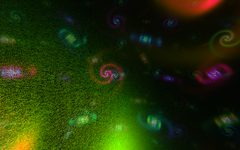
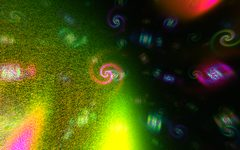
Library moves with the morph, Bismuth's crystals are larger and fewer, Galaxies is brighter
Library: the morph widens and heightens the doorways and shafts and slides every book out from the wall
and back by its own amount. Bismuth: three sizes of crystal, each a little over half the last, where four
at a steeper step read as rubble. Galaxies: more light, thicker discs for the steps to find, and the
larger galaxies tighter about their middles so the camera is seldom inside one.

Claude-Session: https://claude.ai/code/session_01P6VPR9y6rGkpLBNy8xwDmE

diff --git a/js/worlds.js b/js/worlds.js
@@ -1145,11 +1145,12 @@ export const WORLDS=[
 /* Bismuth: hopper crystals. A crystal that grows faster along its edges than in the middle of its faces is left as a
    frame, each face sunk in square steps down to a small cube at the heart. Here each face goes down eight steps
    (biS: the distance to a flight of steps), and a smaller crystal stands on each of the eight corners, turned a
-   little, and smaller ones on theirs, four sizes in all. The morph turns them. */
+   little, and smaller ones on theirs, three sizes in all, each a little over half the size before, so that
+   the largest are plainly crystals and the smallest are not lost as rubble. The morph turns them. */
 {id:"bismuth",name:"Bismuth",hue:.78,fog:.12,maxd:24,speed:.9,start:null,
- period:function(){return [9.2,9.2,9.2]},
+ period:function(){return [8.4,8.4,8.4]},
  glsl:[
- "#define P 4.6",
+ "#define P 4.2",
  "float biK;",
  "float biS(float t,float v){", /* steps of an eighth that rise with v: the distance to everything under them */
  "  if(t-v>0.25)return (t-v)*0.7071068;",
@@ -1160,17 +1161,17 @@ export const WORLDS=[
  "  p=abs(mod(p+0.5*P,2.0*P)-P)-0.5*P;",
  "  float a1=0.3+0.25*uM;float c1=cos(a1),s1=sin(a1);",
  "  float s=1.0;float d=1e5;orb=vec4(1000.0);biK=0.0;",
- "  for(int i=0;i<4;i++){",
+ "  for(int i=0;i<3;i++){",
  "    vec3 a=abs(p);",
  "    if(a.x<a.y)a.xy=a.yx;",
  "    if(a.x<a.z)a.xz=a.zx;",
  "    if(a.y<a.z)a.yz=a.zy;",
  "    float e=max(biS(a.x-0.25,a.y),a.x-1.0)/s;",
- "    if(e<d){d=e;orb=vec4(fract(a.y*8.0),0.3*biK,0.0,0.75*biK+0.13*float(i));}",
- "    p=abs(p)-0.9;",
+ "    if(e<d){d=e;orb=vec4(fract(a.y*8.0),0.3*biK,0.0,0.75*biK+0.17*float(i));}",
+ "    p=abs(p)-0.95;",
  "    p.xy=vec2(c1*p.x-s1*p.y,s1*p.x+c1*p.y);",
  "    p.yz=vec2(c1*p.y-s1*p.z,s1*p.y+c1*p.z);",
- "    p*=2.1;s*=2.1;",
+ "    p*=1.9;s*=1.9;",
  "  }",
  "  return 0.9*d;",
  "}"],
@@ -1181,18 +1182,18 @@ export const WORLDS=[
     gx=t-k-.125;gy=k+.125-v;
     return Math.min(d,Math.hypot(Math.max(gx,0),Math.max(gy,0))+Math.min(Math.max(gx,gy),0));
   }
-  var P=4.6;x=tile(x,P);y=tile(y,P);z=tile(z,P);
+  var P=4.2;x=tile(x,P);y=tile(y,P);z=tile(z,P);
   var a1=.3+.25*m,c1=Math.cos(a1),s1=Math.sin(a1),s=1,d=1e5,t,ax,ay,az;
-  for(var i=0;i<4;i++){
+  for(var i=0;i<3;i++){
     ax=Math.abs(x);ay=Math.abs(y);az=Math.abs(z);
     if(ax<ay){t=ax;ax=ay;ay=t}
     if(ax<az){t=ax;ax=az;az=t}
     if(ay<az){t=ay;ay=az;az=t}
     d=Math.min(d,Math.max(S(ax-.25,ay),ax-1)/s);
-    x=Math.abs(x)-.9;y=Math.abs(y)-.9;z=Math.abs(z)-.9;
+    x=Math.abs(x)-.95;y=Math.abs(y)-.95;z=Math.abs(z)-.95;
     t=c1*x-s1*y;y=s1*x+c1*y;x=t;
     t=c1*y-s1*z;z=s1*y+c1*z;y=t;
-    x*=2.1;y*=2.1;z*=2.1;s*=2.1;
+    x*=1.9;y*=1.9;z*=1.9;s*=1.9;
   }
   return .9*d;
  }},
@@ -1201,7 +1202,8 @@ export const WORLDS=[
    floor, and on the shelves stand books, each of its own height, depth and colour. A book's are chosen from a number
    worked out from its place on the shelf, its shelf, its wall, its room and its floor with whole numbers only, as in
    Tangle, so the chip and JavaScript agree; the rooms repeat every four and the floors every four. The room is
-   folded onto half of one wall; a book is worked out with the one on each side of it. The morph is not used. */
+   folded onto half of one wall; a book is worked out with the one on each side of it. The morph widens and heightens the doorways and the shafts, and slides every book out from the
+   wall and back by its own amount. */
 {id:"library",name:"Library",hue:.05,fog:.09,maxd:26,speed:.8,start:[0,0,0],
  period:function(){return [16,8,16]},
  glsl:[
@@ -1210,7 +1212,7 @@ export const WORLDS=[
  "void lbB(float k,float u,float yy,float xd,float id){", /* the book that is k along its shelf */
  "  if(k<6.5||k>23.5)return;",
  "  float a=mo(k*37.0+id,251.0);float b=mo(a*(a+3.0),61.0);",
- "  float hb=0.19+0.014*mo(b,8.0);float db=0.15+0.015*mo(floor((b+0.5)*0.125),4.0);",
+ "  float hb=0.19+0.014*mo(b,8.0);float db=0.15+0.015*mo(floor((b+0.5)*0.125),4.0)+0.03*(1.0+sin(1.7*b+2.6*uM));",
  "  vec3 g=vec3(abs(u-(k+0.5)*0.0625)-0.029,abs(yy-0.012-0.5*hb)-0.5*hb,abs(xd-0.5*db)-0.5*db);",
  "  float d=length(max(g,0.0))+min(max(g.x,max(g.y,g.z)),0.0);",
  "  if(d<lbD){lbD=d;float band=abs(yy-0.012-0.5*hb);lbC=vec4(band>0.3*hb&&band<0.38*hb?1.0:0.0,0.0,0.0,b/61.0);}",
@@ -1222,11 +1224,11 @@ export const WORLDS=[
  "  float y=l.y;float js=floor((y+1.0)*3.0);float yy=y+1.0-js*0.3333333;",
  "  float id=59.0*wid+17.0*mo(r.x,4.0)+71.0*mo(r.z,4.0)+29.0*mo(r.y,4.0)+101.0*js;",
  "  float xd=1.88-q.x;float u=q.y;float rho=length(l.xz);",
- "  float d=max(xd,min(0.4-u,0.5-y));vec4 c=vec4(0.0,0.0,0.0,0.12);", /* the wall, less its doorway */
+ "  float d=max(xd,min(0.36+0.06*uM-u,0.5+0.2*uM-y));vec4 c=vec4(0.0,0.0,0.0,0.12);", /* the wall, less its doorway */
  "  d=min(d,1.5-u);", /* the pillar in the corner */
- "  float e=max(0.988-abs(y),0.7-rho);", /* the floor, less the shaft */
+ "  float e=max(0.988-abs(y),0.7+0.12*uM-rho);", /* the floor, less the shaft */
  "  if(e<d){d=e;c=vec4(mod(floor(l.x*2.0)+floor(l.z*2.0),2.0),0.0,0.0,0.5);}",
- "  e=length(vec2(rho-0.74,y+0.68))-0.018;if(e<d){d=e;c=vec4(0.0,0.0,0.0,0.8);}", /* the rail round the shaft */
+ "  e=length(vec2(rho-0.74-0.12*uM,y+0.68))-0.018;if(e<d){d=e;c=vec4(0.0,0.0,0.0,0.8);}", /* the rail round the shaft */
  "  e=max(max(abs(mod(y+1.1666667,0.3333333)-0.1666667)-0.012,xd-0.22),0.42-u);", /* the shelves */
  "  e=min(e,max(abs(u-0.43)-0.012,xd-0.22));", /* and the board that ends them at the doorway */
  "  if(e<d){d=e;c=vec4(0.0,0.0,0.0,0.18);}",
@@ -1234,19 +1236,19 @@ export const WORLDS=[
  "  if(lbD<d){d=lbD;c=lbC;}",
  "  orb=c;return 0.9*d;",
  "}"],
- de:function(x,y,z){
+ de:function(x,y,z,m){
   function mo(v,k){return Math.floor(md(v+.5,k))}
   var rx=Math.floor(x/4+.5),ry=Math.floor(y/2+.5),rz=Math.floor(z/4+.5),lx=x-4*rx,ly=y-2*ry,lz=z-4*rz;
   var qx=Math.abs(lx),qy=Math.abs(lz),wid=(lx<0?1:0)+(lz<0?2:0),t,j;
   if(qx<qy){t=qx;qx=qy;qy=t;wid+=4}
   var js=Math.floor((ly+1)*3),yy=ly+1-js*.3333333,id=59*wid+17*mo(rx,4)+71*mo(rz,4)+29*mo(ry,4)+101*js;
-  var xd=1.88-qx,u=qy,rho=Math.hypot(lx,lz),d=Math.max(xd,Math.min(.4-u,.5-ly));
-  d=Math.min(d,1.5-u,Math.max(.988-Math.abs(ly),.7-rho),Math.hypot(rho-.74,ly+.68)-.018);
+  var xd=1.88-qx,u=qy,rho=Math.hypot(lx,lz),d=Math.max(xd,Math.min(.36+.06*m-u,.5+.2*m-ly));
+  d=Math.min(d,1.5-u,Math.max(.988-Math.abs(ly),.7+.12*m-rho),Math.hypot(rho-.74-.12*m,ly+.68)-.018);
   d=Math.min(d,Math.max(Math.abs(md(ly+1.1666667,.3333333)-.1666667)-.012,xd-.22,.42-u),Math.max(Math.abs(u-.43)-.012,xd-.22));
   var k0=Math.floor(u*16);
   for(j=-1;j<2;j++){
     var k=k0+j;if(k<6.5||k>23.5)continue;
-    var a=mo(k*37+id,251),b=mo(a*(a+3),61),hb=.19+.014*mo(b,8),db=.15+.015*mo(Math.floor((b+.5)*.125),4);
+    var a=mo(k*37+id,251),b=mo(a*(a+3),61),hb=.19+.014*mo(b,8),db=.15+.015*mo(Math.floor((b+.5)*.125),4)+.03*(1+Math.sin(1.7*b+2.6*m));
     var gx=Math.abs(u-(k+.5)*.0625)-.029,gy=Math.abs(yy-.012-.5*hb)-.5*hb,gz=Math.abs(xd-.5*db)-.5*db;
     d=Math.min(d,Math.hypot(Math.max(gx,0),Math.max(gy,0),Math.max(gz,0))+Math.min(Math.max(gx,gy,gz),0));
   }
@@ -1404,14 +1406,14 @@ export const WORLDS=[
   return .8*Math.min(C(x,y,z,.8,2,.95+.4*m,.15),C(Math.abs(x)-2,Math.abs(y)-2,Math.abs(z)-2,.45,1,.75-.3*m,.19));
  }},
 /* Galaxies in the dark: one to a cell at two sizes, each a flat disc lying its own way with a bright middle and two
-   arms that wind outward, turning slowly, some one way and some the other. The morph winds the arms tighter. A cloud
-   world, so JavaScript has no copy of it. */
+   arms that wind outward, turning slowly, some one way and some the other. The morph winds the arms tighter. The larger ones are drawn tighter about their middles, so that the camera is seldom inside one,
+   where all there is to see is its glow. A cloud world, so JavaScript has no copy of it. */
 {id:"galaxies",name:"Galaxies",hue:.66,fog:0,maxd:1,speed:.6,start:[.3,.2,.1],volume:true,
  period:function(){return [8,8,8]},
  glsl:[
- "#define VMAP(a) ((a)*(0.07+(a))*2.6)",
+ "#define VMAP(a) ((a)*(a)*4.5)",
  "#define VSTEP 0.1",
- "float gxy(vec3 p,float per){",
+ "float gxy(vec3 p,float per,float kr){",
  "  vec3 c=floor(p);vec3 f=p-c-0.5;c=floor(mod(c+0.5,per));",
  "  float h=fract(sin(dot(c,vec3(12.9898,78.233,37.719)))*43758.5453);",
  "  vec3 w3=smoothstep(0.5,0.34,abs(f));",
@@ -1421,11 +1423,11 @@ export const WORLDS=[
  "  f.yz=vec2(cos(a2)*f.y-sin(a2)*f.z,sin(a2)*f.y+cos(a2)*f.z);",
  "  float r=length(f.xy);float sp=h<0.5?-1.0:1.0;",
  "  float arm=0.5+0.5*cos(2.0*atan(f.y,f.x)*sp-(7.0+2.0*uM)*log(r+0.02)+0.2*uTime);",
- "  float disc=exp(-r*r*22.0)*exp(-f.z*f.z*300.0)*(0.18+arm*arm*arm);",
- "  return (0.45+0.55*fract(h*311.1))*w3.x*w3.y*w3.z*(disc+0.8*exp(-dot(f,f)*330.0));",
+ "  float disc=exp(-r*r*kr)*exp(-f.z*f.z*130.0)*(0.18+arm*arm*arm);",
+ "  return (0.45+0.55*fract(h*311.1))*w3.x*w3.y*w3.z*(disc+0.6*exp(-dot(f,f)*9.0*kr));",
  "}",
  "float dens(vec3 p){",
- "  return gxy(p*0.5,4.0)+0.6*gxy(p+3.3,8.0);",
+ "  return gxy(p*0.5,4.0,36.0)+0.6*gxy(p+3.3,8.0,20.0);",
  "}"],
  de:function(){return .25}},
 /* Nerve cells in columns, as in the brain's cortex, and never still. Each cell of 3 holds one neuron: a body below

diff --git a/docs/ARCHITECTURE.md b/docs/ARCHITECTURE.md
@@ -332,15 +332,15 @@ Two requirements matter more than anything else when adding or changing a world:
 | Fabric | A woven cloth that waves (not a fractal); see *The Fabric* below | Height above the cloth's middle `y - fbH(x,z)`, folded onto the nearest of the cloths at 0, -3, -6 and so on. Threads 1 apart: the one along x through this square at height `0.135*sj*sin(pi*x)`, the one along z at `-0.135*si*sin(pi*z)` (`si`, `sj` are 1 or -1 by the square's count), so each goes over one and under the next. A thread is a square bar of half-thickness 0.125 with three levels of the Sponge's holes (`fbT`, hole size 0.82 where the Sponge's is 1). Held to the distance to the next thread over (`0.875 - max(abs(ax), abs(az))` across, and up from 0.26) and to the cloths above and below. `0.65*d` | 12, (16), 12 | none: the waves come from the clock and the sound |
 | Cortex | Nerve cells in columns, joined into a net (branching, as Thicket is) | Mirror tile `P=3`. A body (a ball of 0.27 made taller, with bumps) at 0.45 below the middle; a trunk along y with six fibres wound round it at radius 0.24 (the angle plus `2pi/3 * y`, folded into a sixth of a turn); four trees from the body (the point folded by `abs` on x and z, then the tree set outward and 20 degrees down) and four from 0.85 up the trunk (outward and 50 degrees up). A tree (`cxT`): five times, a stem of length 1 bent sideways by `cw*sin(pi*h)`, radius `(0.085 - 0.02h)(1 + 0.22 sin 25y)` (beads), then `y -= 1; x = abs(x)`, a lean `an`, a turn `bn` about the stem, `*= 1.45`. The trees reach past the cell's walls, so each meets its mirror image there. A star cell of 0.17 at the corners and a waving fibre kept 0.085 inside each edge. `orb.w` runs out along a tree, so the scene's moving bands pass along it; factor 0.75 | 6 | `an = 0.55 + 0.16m + 0.1*uMc.y`, `bn = pi/2 + 0.45*uMc.z`, `cw = 0.1 + 0.09*uMc.w`: three slow waves of the morph's clock (below) |
 | Clockwork | Gears in mesh that turn (not a fractal) | Layers 1 apart along z; in a layer a gear to each 2 by 2, pitch radius 1: a rim from 0.74 out to `0.97 + 0.09*clamp(1.5*cos(16a + pi*par), -1, 1)` (sixteen teeth; that part of the distance times 0.42), eight or four spokes, a hub, and an axle of 0.08 through every layer. `par` is the gear's place in its layer, odd or even: an odd gear turns the other way and stands half a tooth round, which is what makes every pair mesh, sixteen being even. Only the square's own gear and its nearest neighbour are worked out; the next layer is held to `0.8 - |z|`. Odd layers turn twice as fast the other way and are thicker. Between four axles the gears leave a shaft of radius about 0.35 open along z | 4, 4, 2 | nothing: the angle turned is `uMc.x` (below), and twice that the other way in the odd layers |
-| Bismuth | Hopper crystals | Mirror tile `P=4.6`; the point's three distances sorted largest first, then a cube of half-size 1 whose faces go down in eight square steps of 1/8 to a cube of 0.25 (`biS`, the exact distance to a flight of steps: the two nearest steps' corners, or the slope's own distance beyond two steps out); then `p = abs(p) - 0.9`, two rotations, `p *= 2.1`; 4 levels; factor 0.9 | 9.2 | rotation `0.3 + 0.25m` |
-| Library | A library without end, after Borges (not a fractal) | Rooms of 4 by 4, floors 2 apart. The room is folded onto half of one wall (`abs`, then the larger first). Wall at 1.88 from the room's middle less a doorway 0.8 wide and 1.5 high; a pillar where two walls meet (beyond 1.5 along both); floor 0.024 thick less a shaft of radius 0.7 with a rail; shelves every third of a unit, 0.22 deep; on each shelf books 1/16 wide, the 7th to the 23rd from the doorway's middle. A book's number: `a = (37k + 101*shelf + 59*wall half + 17*room x + 71*room z + 29*floor) mod 251`, `b = a(a+3) mod 61`; its height is `0.19 + 0.014*(b mod 8)`, its depth `0.15 + 0.015*(floor(b/8) mod 4)`, its colour `b/61`. A book is worked out with the one on each side; factor 0.9 | 16, 8, 16 | nothing |
+| Bismuth | Hopper crystals | Mirror tile `P=4.2`; the point's three distances sorted largest first, then a cube of half-size 1 whose faces go down in eight square steps of 1/8 to a cube of 0.25 (`biS`, the exact distance to a flight of steps: the two nearest steps' corners, or the slope's own distance beyond two steps out); then `p = abs(p) - 0.95`, two rotations, `p *= 1.9`; 3 levels (four at 2.1 read as rubble); factor 0.9 | 8.4 | rotation `0.3 + 0.25m` |
+| Library | A library without end, after Borges (not a fractal) | Rooms of 4 by 4, floors 2 apart. The room is folded onto half of one wall (`abs`, then the larger first). Wall at 1.88 from the room's middle less a doorway `0.72 + 0.12m` wide and `1.5 + 0.2m` high; a pillar where two walls meet (beyond 1.5 along both); floor 0.024 thick less a shaft of radius `0.7 + 0.12m` with a rail; shelves every third of a unit, 0.22 deep; on each shelf books 1/16 wide, the 7th to the 23rd from the doorway's middle. A book's number: `a = (37k + 101*shelf + 59*wall half + 17*room x + 71*room z + 29*floor) mod 251`, `b = a(a+3) mod 61`; its height is `0.19 + 0.014*(b mod 8)`, its depth `0.15 + 0.015*(floor(b/8) mod 4) + 0.03*(1 + sin(1.7b + 2.6m))`, its colour `b/61`. A book is worked out with the one on each side; factor 0.9 | 16, 8, 16 | the doorways' and shafts' size, and how far out each book stands, by its own amount |
 | Stairs | Flights of steps with three ways up, after Escher (not a fractal) | Mirror tile `P=4`. One flight: under the steps (`stS`, as Bismuth's but steps of 1/5), above the slope 0.28 below them, and within `0.42 + 0.08m` of the flat `z = 1`; it climbs in y along x. The other two are the same with the axes moved round once and twice | 8 | the flights' width |
 | Causeway | Six-sided columns from a floor and a roof (not a fractal) | Height folded about the cave's middle (`t = 2.6 - |y|`, and which side). Columns 1 apart in a honeycomb; a column's number `n = u + 16v + 128*side` from its middle's whole-number place (`u = 2x mod 16`, `v = z/0.866 mod 8`), `h = n(n+3) mod 61`; its height `0.9 + 0.012h` plus two slow waves (opposite on floor and roof) plus `0.22*sin(0.7h + 2.6m)`. The column and the six round it are worked out exactly; the rest are held to half a unit past this column's side; factor 0.9 | 8, 5.2, 4*sqrt(3) | each column's height, by its own amount |
 | Dyson | Round cages inside cages (not a fractal) | Mirror tile `P=5`. Four shells of radius 2.2, 1.55, 1, 0.55 and thickness 0.06 of that, each kept only within `0.035R` of a flat cut through the middle, the cuts evenly spaced by angle across a cube's faces (4, 3, 2, 2 windows across); a ball of 0.2 at the heart; factor 0.8 | 10 | each cage's turn: `0.5m`, `1 - 0.9m`, `2 + 1.5m`, `0.5 - 2.2m` |
 | Ferro | Balls of spikes (not a fractal) | Mirror tile `P=4`. A ball of 0.8 at the cell's middle with a spike in each of 4 by 4 equal angles of each cube face, and one of 0.45 at the corners with 2 by 2; a spike is a cone with round ends from 0.12 inside the ball, joined to it by a smooth minimum of 0.12; factor 0.8 | 8 | the spikes' length: `0.95 + 0.4m`, and `0.75 - 0.3m` on the small balls |
 | Nebula | Volumetric Kaliset | `p = abs(p)/dot(p,p) - f`, 10 iterations, accumulating `|len - prevLen|`; cubed | 2 | `f = 0.55 + 0.03m` |
 | Aurora | Volumetric warped gyroid | Three octaves of `p += A*sin(p.yzx*F + t)`, then `exp(-k*|gyroid|)` ribbons | 2π | ribbon width |
-| Galaxies | Volumetric spiral galaxies | One to a cell of 2 (mod 4) and one to a cell of 1 (mod 8), each off its cell's middle and turned two ways by a hash of the cell: `exp(-22r^2)*exp(-300z^2)*(0.18 + arm^3)` with `arm = 0.5 + 0.5*cos(2*angle - (7 + 2m)*log(r) + 0.2*time)`, plus a bright middle; faded toward the cell's sides | 8 | how tightly the arms wind |
+| Galaxies | Volumetric spiral galaxies | One to a cell of 2 (mod 4) and one to a cell of 1 (mod 8), each off its cell's middle and turned two ways by a hash of the cell: `exp(-k r^2)*exp(-130z^2)*(0.18 + arm^3)` (`k` 36 for the larger, so the camera is seldom inside one, 20 for the smaller) with `arm = 0.5 + 0.5*cos(2*angle - (7 + 2m)*log(r) + 0.2*time)`, plus a bright middle; faded toward the cell's sides | 8 | how tightly the arms wind |
 | Lanterns | Volumetric lights | One soft light to a unit cell and one to a half cell, each off its cell's middle by a hash of the cell (mod 8) and swaying with the clock, faded toward the cell's sides so that none is cut; plus a faint gyroid haze | 8 | size of the larger lights |
 
 Safety factors (0.42, 0.6, 0.8 and so on) are there because some of these estimators are not strictly 1-Lipschitz: twists, sums of gyroids and clamped sphere folds can overestimate distance. Lowering a factor trades speed for fewer overshoot artifacts.

diff --git a/README.md b/README.md
@@ -61,12 +61,12 @@ The app is one page, one stylesheet and a folder of JavaScript modules. There is
 - **40 worlds.** Thirty-four are solid surfaces: twenty-two fractals, and twelve that are things and places (Cell, the inside of a living cell; Biomech, Seer, Net and Fabric; and Clockwork, Library, Stairs, Causeway, Dyson, Ferro and Cortex: see below); four (Nebula, Aurora, Lanterns and Galaxies) are glowing volumes; two (Mandelbrot zoom and Julia zoom) are flat pictures seen from above that zoom in and out. Every world you fly through repeats forever in all directions.
 - **Nine worlds that are things and places**, with the **Curiosities** journey template, which flies through eight of them in turn:
   - **Clockwork**: layers of gears in mesh, each turning against its neighbours on axles that run through every layer. They turn steadily while Morph is on, faster when the middle of the music is loud, and never backward. Between every four axles a shaft is open through all the layers, to fly down.
-  - **Library**: a library without end, after Borges. Square rooms one above another, an open shaft through the middle of every floor, a doorway in every wall, and every wall shelved on both sides with books, each of its own height, depth and colour.
+  - **Library**: a library without end, after Borges. Square rooms one above another, an open shaft through the middle of every floor, a doorway in every wall, and every wall shelved on both sides with books, each of its own height, depth and colour. The morph opens the doorways and shafts wider and slides every book out from the wall and back, so with music the shelves move.
   - **Stairs**: flights of steps with three ways up, after Escher. Some climb as they go along, some climb sideways, some climb toward you, so one flight's wall is another's floor.
   - **Causeway**: six-sided columns of basalt, each of its own height, standing up from a floor and hanging from a roof, with a winding cave between. The morph moves every column up or down by its own amount, like pistons.
   - **Dyson**: four round cages of bars, each inside the last, with a ball at the heart. The morph turns each a different way. The windows are wide enough to fly in through.
   - **Ferro**: balls of spikes, as a magnet draws from iron in oil. The morph draws the spikes out and lets them sink back.
-  - **Bismuth**: hopper crystals, whose faces are sunk in square steps to a small cube at the heart, with smaller crystals on their corners and smaller ones on theirs.
+  - **Bismuth**: hopper crystals, whose faces are sunk in square steps to a small cube at the heart, with smaller crystals on their corners and smaller ones on theirs, three sizes in all.
   - **Cortex**: nerve cells in columns, joined into a net that is never still. Each has a body, trees of beaded dendrites that bend, lean and twist, each at its own slow pace, a trunk wound with fibres that runs up to the cell above, and a tuft at the top; small star cells sit between. Bands of colour run out along the dendrites like signals. It is heavy work for the graphics chip, so Journey never chooses it by itself: pick it by hand, or tick it in a template of your own.
   - **Galaxies**: a fourth glowing volume. Spiral galaxies at two sizes, each lying its own way and turning slowly; the morph winds their arms tighter.
 - **Biomech**, a world in homage to the biomechanical paintings of H. R. Giger: an endless hall of tunnels whose walls are rib cages, with spines where the tunnels meet, tendons between ribs and spines, and ribbed hoses running alongside. The cages breathe with the morph. Nothing of his is copied; it is built from the kinds of thing he painted. With it come three near-grey palettes that are open from the start (**Gunmetal**, **Tallow**, **Verdigris**), the **ribbed** surface, the **Airbrush** filter and the **Biomech** journey template, all of which work in every other world too.
